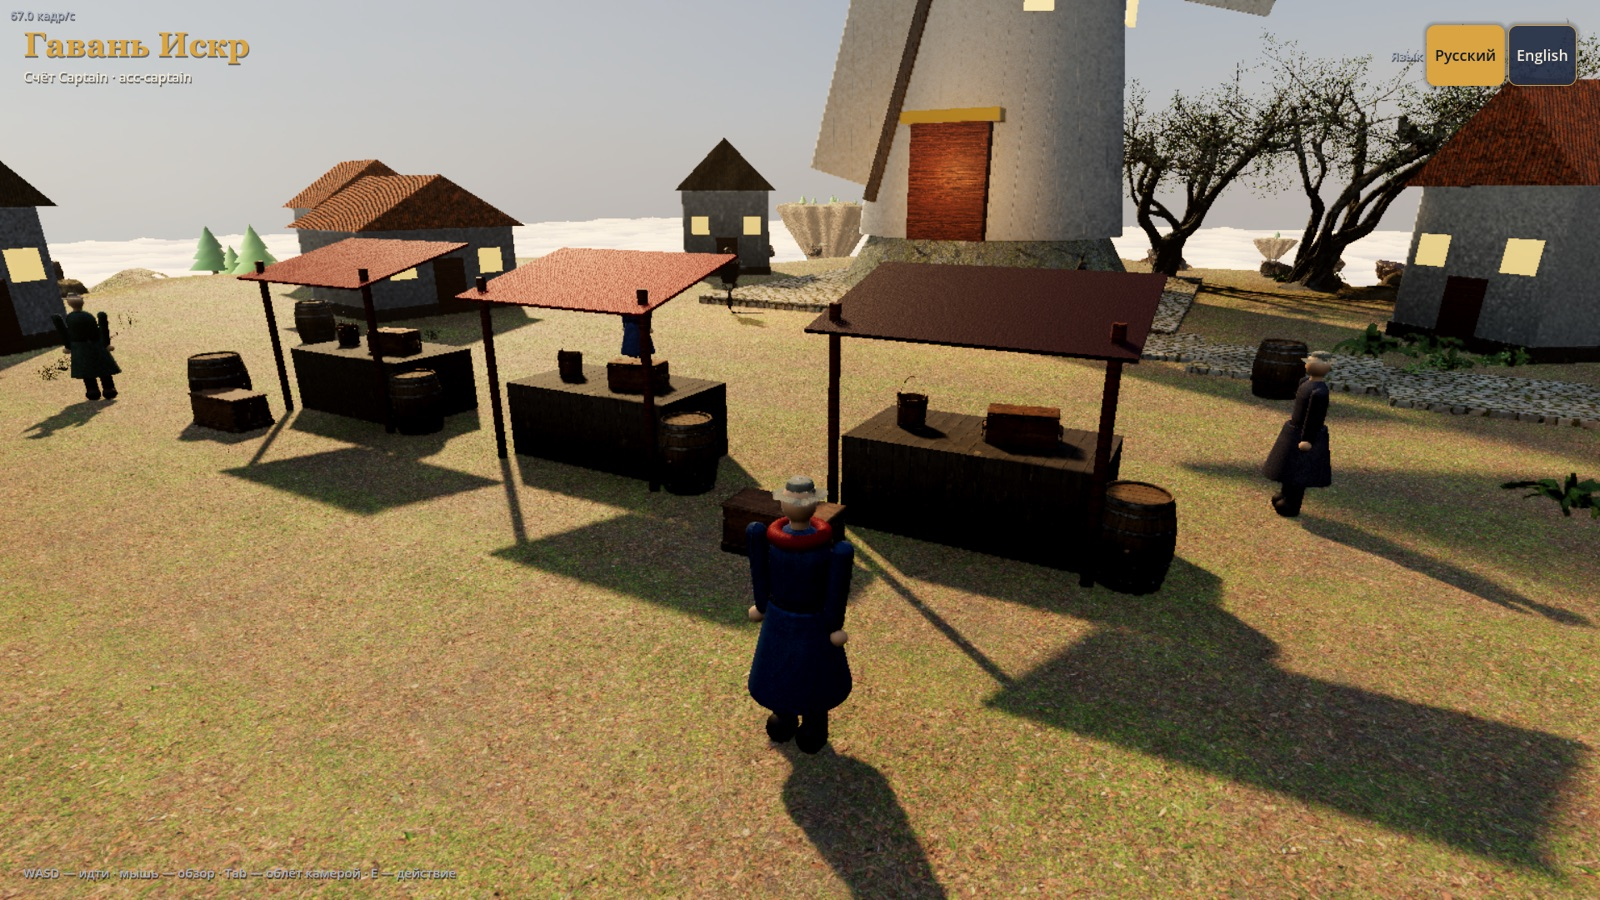
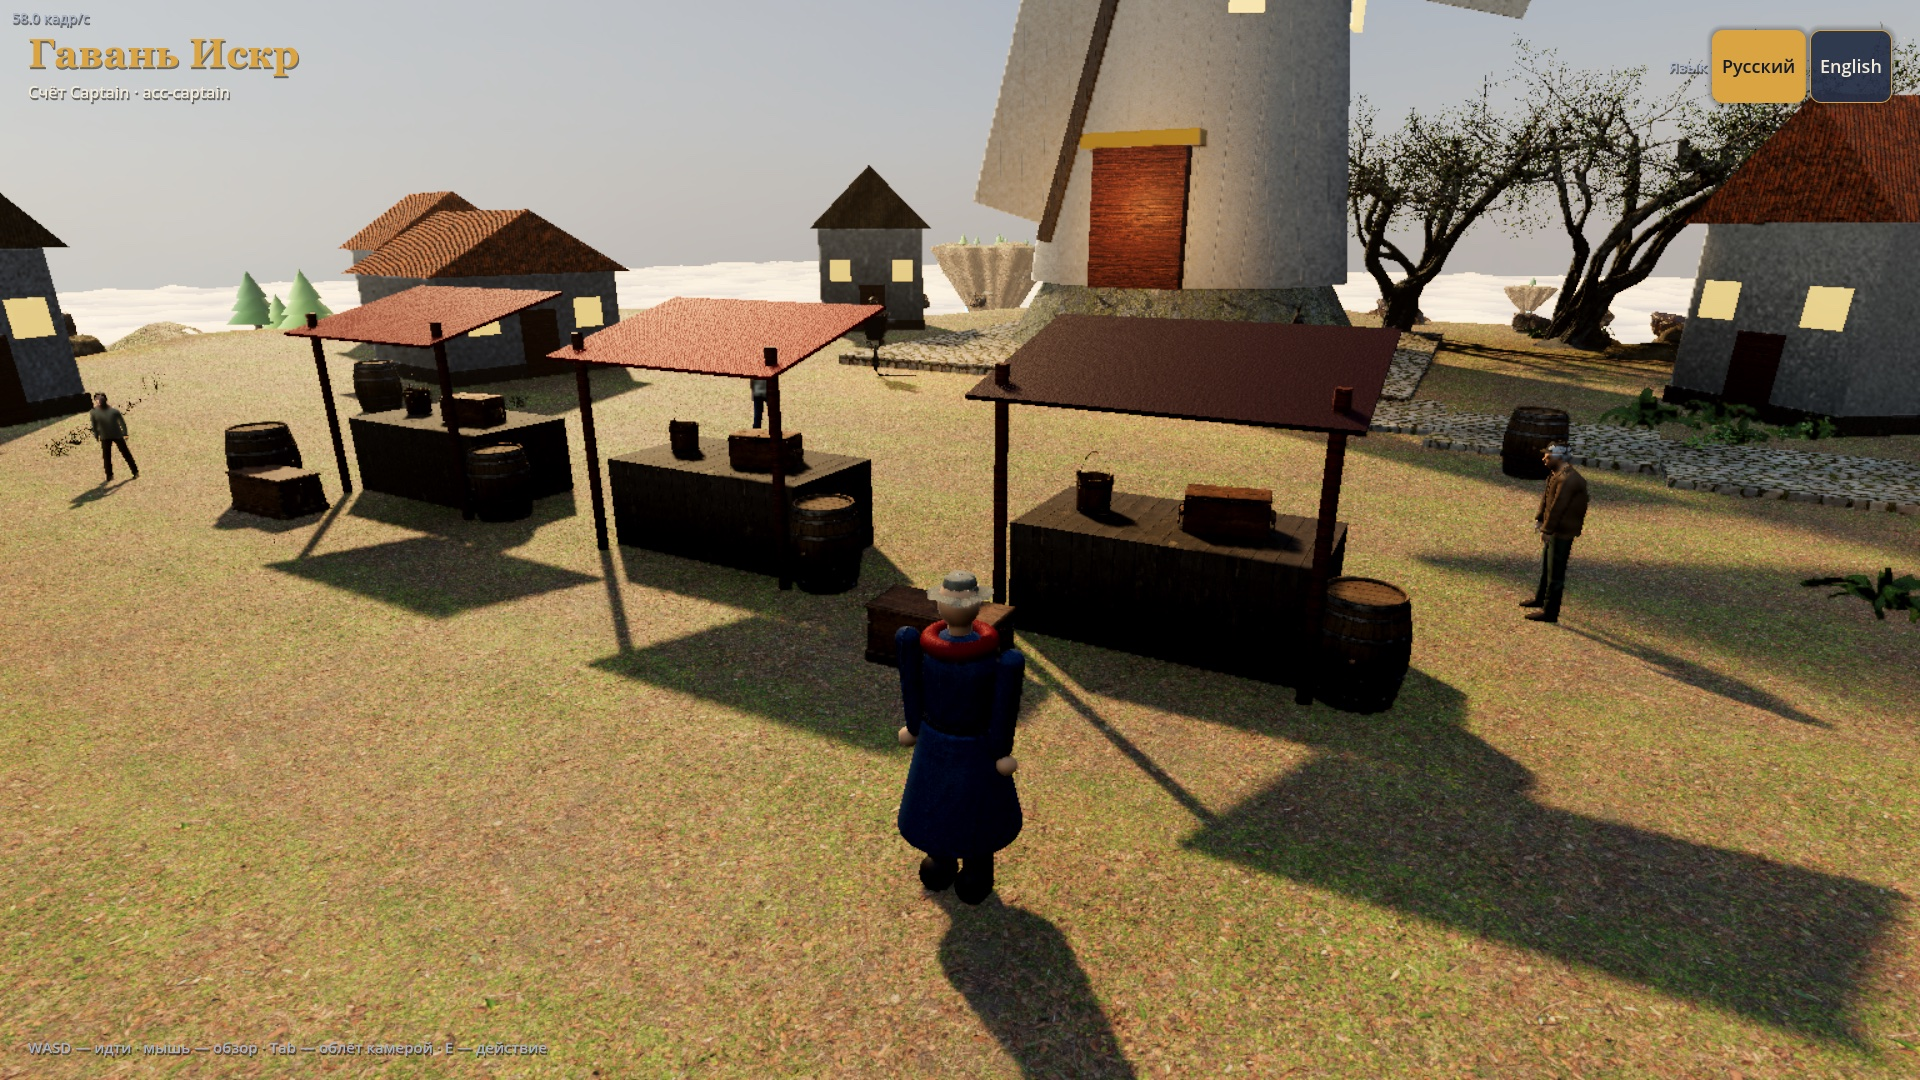
game3d: MakeHuman villagers, Mara and hall traders (CC0, generated by tools/people)

Changed region(s): [[0.7812, 0.3733, 1.0, 0.7156], [0.0, 0.3111, 0.0938, 0.4978], [0.375, 0.3422, 0.4062, 0.4044]]

diff --git a/game3d/tools/people/make.py b/game3d/tools/people/make.py
@@ -1,0 +1,98 @@
+import bpy, sys, os, json
+argv = sys.argv[sys.argv.index("--") + 1:]
+name, out = argv[0], argv[1]
+from bl_ext.user_default.mpfb.services.humanservice import HumanService
+from bl_ext.user_default.mpfb.services.objectservice import ObjectService
+
+C = {
+ "sailor": dict(ph=dict(gender=1.0, age=0.55, muscle=0.7, weight=0.55, height=0.55, race=dict(asian=0.3, caucasian=0.6, african=0.1)),
+   proxy="male_generic/male_generic.proxy", skin="young_caucasian_male/young_caucasian_male.mhmat",
+   hair="short02/short02.mhclo", eyebrows="eyebrow001/eyebrow001.mhclo", eyes_mat="brown",
+   clothes=["male_casualsuit06/male_casualsuit06.mhclo", "shoes03/shoes03.mhclo"], top=(0.80,0.76,0.66), bottom=(0.24,0.30,0.42), hat=None, hairtint=None),
+ "trader": dict(ph=dict(gender=0.0, age=0.6, muscle=0.5, weight=0.65, height=0.57, race=dict(asian=0.6, caucasian=0.35, african=0.05)),
+   proxy="female_generic/female_generic.proxy", skin="middleage_asian_female/middleage_asian_female.mhmat",
+   hair="braid01/braid01.mhclo", eyebrows="eyebrow010/eyebrow010.mhclo", eyes_mat="brownlight",
+   clothes=["female_elegantsuit01/female_elegantsuit01.mhclo", "shoes01/shoes01.mhclo"], top=(0.19,0.28,0.19), bottom=(0.45,0.34,0.22), hat=None, hairtint=None),
+ "oldman": dict(ph=dict(gender=1.0, age=1.0, muscle=0.35, weight=0.45, height=0.42, race=dict(asian=0.2, caucasian=0.75, african=0.05)),
+   proxy="male_generic/male_generic.proxy", skin="old_caucasian_male/old_caucasian_male.mhmat",
+   hair="short04/short04.mhclo", eyebrows="eyebrow002/eyebrow002.mhclo", eyes_mat="grey",
+   clothes=["male_casualsuit05/male_casualsuit05.mhclo", "shoes06/shoes06.mhclo", "fedora01/fedora01.mhclo"], top=(0.36,0.28,0.20), bottom=(0.20,0.23,0.19), hat=(0.24,0.19,0.14), hairtint=(0.72,0.71,0.69)),
+ "child": dict(ph=dict(gender=0.85, age=0.16, muscle=0.5, weight=0.5, height=0.5, race=dict(asian=0.4, caucasian=0.55, african=0.05)),
+   proxy="male_generic/male_generic.proxy", skin="young_caucasian_male/young_caucasian_male.mhmat",
+   hair="short01/short01.mhclo", eyebrows="eyebrow001/eyebrow001.mhclo", eyes_mat="blue",
+   clothes=["male_casualsuit02/male_casualsuit02.mhclo", "shoes03/shoes03.mhclo"], top=(0.74,0.67,0.52), bottom=(0.42,0.31,0.21), hat=None, hairtint=None),
+}[name]
+
+for o in list(bpy.data.objects):
+    bpy.data.objects.remove(o)
+
+hi = HumanService._create_default_human_info_dict()
+ph = hi["phenotype"]; ph.update({k: v for k, v in C["ph"].items() if k != "race"}); ph["race"] = C["ph"]["race"]
+hi.update(name=name, rig="game_engine", proxy=C["proxy"], skin_mhmat=C["skin"], skin_material_type="MAKESKIN",
+          eyes="low-poly/low-poly.mhclo", eyes_material_type="MAKESKIN", eyebrows=C["eyebrows"],
+          eyelashes="eyelashes01/eyelashes01.mhclo", hair=C["hair"], clothes=C["clothes"], clothes_material_type="MAKESKIN")
+s = HumanService.get_default_deserialization_settings()
+s.update(subdiv_levels=0, load_clothes=True)
+basemesh = HumanService.deserialize_from_dict(hi, s)
+
+# eye colour: swap eye texture to the chosen CC0 colour
+eyes = ObjectService.find_object_of_type_amongst_nearest_relatives(basemesh, "Eyes")
+assets = os.environ["MH_ASSETS"]
+if eyes:
+    img = bpy.data.images.load(os.path.join(assets, "eyes/materials", C["eyes_mat"] + "_eye.png"))
+    for slot in eyes.material_slots:
+        for n in slot.material.node_tree.nodes:
+            if n.type == "TEX_IMAGE" and n.image and "diffuse" in n.label.lower() + n.name.lower() + n.image.name.lower() or (n.type == "TEX_IMAGE" and n.image and "eye" in n.image.name.lower()):
+                n.image = img
+
+rig = basemesh.parent
+objs = [rig] + [o for o in rig.children if o is not basemesh]
+exec(open(os.path.join(os.path.dirname(os.path.abspath(__file__)), "restyle.py")).read())
+# Downscale textures to keep the glb small
+for im in bpy.data.images:
+    if im.size[0] > 1024:
+        im.scale(1024, int(1024 * im.size[1] / im.size[0]))
+        im.pack()
+
+
+CLIP = ("eyebrow", "eyelash", "short", "braid", "bob", "ponytail", "long", "afro")
+for o in objs:
+    if o.type != "MESH": continue
+    for slot in o.material_slots:
+        m = slot.material
+        if not m or not m.use_nodes: continue
+        nt = m.node_tree
+        for b in [n for n in nt.nodes if n.type == "BSDF_PRINCIPLED"]:
+            a = b.inputs["Alpha"]
+            src = a.links[0].from_socket if a.links else None
+            for l in list(a.links): nt.links.remove(l)
+            if src is not None and any(k in m.name.lower() for k in CLIP):
+                r = nt.nodes.new("ShaderNodeMath"); r.operation = "ROUND"
+                nt.links.new(src, r.inputs[0]); nt.links.new(r.outputs[0], a)
+                m.blend_method = "CLIP"
+            else:
+                a.default_value = 1.0
+                m.blend_method = "OPAQUE"
+
+bpy.ops.object.select_all(action="DESELECT")
+for o in objs:
+    o.hide_set(False); o.select_set(True)
+bpy.context.view_layer.objects.active = rig
+
+# stats
+dg = bpy.context.evaluated_depsgraph_get()
+tris = 0
+zmin, zmax = 1e9, -1e9
+for o in objs:
+    if o.type != "MESH": continue
+    e = o.evaluated_get(dg); m = e.to_mesh(); m.calc_loop_triangles()
+    tris += len(m.loop_triangles)
+    for v in m.vertices:
+        z = (e.matrix_world @ v.co).z; zmin = min(zmin, z); zmax = max(zmax, z)
+    e.to_mesh_clear()
+
+bpy.ops.export_scene.gltf(filepath=out, export_format="GLB", use_selection=True, export_yup=True,
+    export_apply=True, export_skins=True, export_animations=False, export_morph=False,
+    export_image_format="JPEG", export_jpeg_quality=85)
+print("STATS", json.dumps(dict(name=name, tris=tris, height_m=round(zmax - zmin, 3),
+      objects=[o.name for o in objs], bones=len(rig.data.bones))))

diff --git a/game3d/tools/people/restyle.py b/game3d/tools/people/restyle.py
@@ -1,0 +1,97 @@
+# executed inside make.py: has C, rig, basemesh, objs, name
+import numpy as np, math
+from mathutils import Vector, Matrix
+
+def img_np(im):
+    a = np.empty(im.size[0]*im.size[1]*4, dtype=np.float32); im.pixels.foreach_get(a); return a.reshape(-1, 4)
+
+def tinted(src, col, tag, flatten=0.7, gain=1.0):
+    a = img_np(src); lum = a[:, :3] @ np.array([0.299, 0.587, 0.114], np.float32)
+    m = lum[a[:, 3] > 0.1].mean() if (a[:, 3] > 0.1).any() else lum.mean()
+    l = flatten*m + (1-flatten)*lum            # compress contrast: kills logos/stripes, keeps folds
+    f = (l / max(m, 1e-3)) * gain
+    out = a.copy(); out[:, :3] = np.clip(np.array(col, np.float32)[None, :] * f[:, None], 0, 1)
+    # subtle cloth grain so flat colour reads painterly
+    rng = np.random.default_rng(7); out[:, :3] *= (1 + rng.normal(0, 0.025, (len(out), 1))).astype(np.float32)
+    im = bpy.data.images.new(src.name + "_" + tag, src.size[0], src.size[1], alpha=True)
+    im.pixels.foreach_set(np.clip(out, 0, 1).ravel()); im.pack(); return im
+
+def diffuse_node(m):
+    c = [n for n in m.node_tree.nodes if n.type == "TEX_IMAGE" and n.image and not any(k in n.image.name.lower() for k in ("normal", "bump", "_nm"))]
+    c = [n for n in c if not any(l.to_node.type == "NORMAL_MAP" for l in n.outputs["Color"].links)] or c
+    return c[0] if c else None
+
+def retint_material(m, col, tag, **kw):
+    m2 = m.copy(); m2.name = m.name + "." + tag
+    n = diffuse_node(m2)
+    if n: n.image = tinted(n.image, col, tag, **kw)
+    return m2
+
+pelvis = rig.pose.bones.get("pelvis"); 
+waist_z = (rig.matrix_world @ rig.data.bones["thigh_l"].head_local).z + (0.07 if name == "trader" else -0.07 if name != "child" else -0.05)
+LEATHER = (0.24, 0.16, 0.10)
+for o in objs:
+    if o.type != "MESH" or not o.material_slots: continue
+    lname = o.name.lower()
+    base = o.material_slots[0].material
+    if any(k in lname for k in ("casualsuit", "elegantsuit", "worksuit")):
+        mt = retint_material(base, C["top"], "top", flatten=0.9); mb = retint_material(base, C["bottom"], "bot", flatten=0.85)
+        o.data.materials.clear(); o.data.materials.append(mt); o.data.materials.append(mb)
+        mw = o.matrix_world
+        for poly in o.data.polygons:
+            z = (mw @ poly.center).z
+            poly.material_index = 1 if z < waist_z else 0
+    elif "shoes" in lname:
+        o.material_slots[0].material = retint_material(base, LEATHER, "lea", flatten=0.4)
+    elif "fedora" in lname and C["hat"]:
+        o.material_slots[0].material = retint_material(base, C["hat"], "felt", flatten=0.5)
+    elif C["hairtint"] and any(k in lname for k in ("short", "eyebrow")):
+        o.material_slots[0].material = retint_material(base, C["hairtint"], "grey", flatten=0.2)
+
+# ---- pose: relaxed stand ----
+bpy.context.view_layer.objects.active = rig
+bpy.ops.object.mode_set(mode="POSE")
+def aim(bname, target):
+    pb = rig.pose.bones[bname]; bpy.context.view_layer.update()
+    M = rig.matrix_world @ pb.matrix
+    head = M.translation.copy(); d = (M.to_3x3() @ Vector((0, 1, 0))).normalized()
+    R = d.rotation_difference(Vector(target).normalized()).to_matrix().to_4x4()
+    pb.matrix = rig.matrix_world.inverted() @ (Matrix.Translation(head) @ R @ Matrix.Translation(-head) @ M)
+    bpy.context.view_layer.update()
+def bend(bname, deg, axis="X"):
+    pb = rig.pose.bones[bname]; bpy.context.view_layer.update()
+    M = rig.matrix_world @ pb.matrix; head = M.translation.copy()
+    R = Matrix.Rotation(math.radians(deg), 4, axis)
+    pb.matrix = rig.matrix_world.inverted() @ (Matrix.Translation(head) @ R @ Matrix.Translation(-head) @ M)
+    bpy.context.view_layer.update()
+
+old = name == "oldman"
+if old:
+    for b, a in (("spine_01", 4), ("spine_02", 6), ("spine_03", 6), ("neck_01", -4), ("head", -6)):
+        if b in rig.pose.bones: bend(b, a)
+# figure faces -Y; +X is character's left side? sign from bone position
+for side, s_out, s_fwd, el in (("l", 0.20, -0.04, -0.18), ("r", 0.15, 0.02, -0.10)):
+    sx = 1 if rig.data.bones["upperarm_" + side].head_local.x > 0 else -1
+    aim("upperarm_" + side, (sx * s_out, s_fwd - (0.12 if old else 0), -1))
+    aim("lowerarm_" + side, (sx * 0.07, el - (0.15 if old else 0), -1))
+    aim("hand_" + side, (sx * 0.02, el * 0.6, -1))
+bend("head", 2.5, "Y") if "head" in rig.pose.bones else None
+bpy.ops.object.mode_set(mode="OBJECT")
+
+# apply pose to meshes, then pose as rest; keep the armature modifier
+for o in objs:
+    if o.type != "MESH": continue
+    if o.data.shape_keys:
+        o.shape_key_clear()
+    bpy.context.view_layer.objects.active = o
+    am = [m for m in o.modifiers if m.type == "ARMATURE"]
+    for m in am:
+        nm, obj = m.name, m.object
+        bpy.ops.object.modifier_apply(modifier=nm)
+        nmod = o.modifiers.new(nm, "ARMATURE"); nmod.object = obj
+        # move armature modifier to front
+        while o.modifiers.find(nm) > 0: bpy.ops.object.modifier_move_up(modifier=nm)
+bpy.context.view_layer.objects.active = rig
+bpy.ops.object.mode_set(mode="POSE"); bpy.ops.pose.select_all(action="SELECT")
+bpy.ops.pose.armature_apply(selected=False)
+bpy.ops.object.mode_set(mode="OBJECT")

diff --git a/game3d/ASSETS.md b/game3d/ASSETS.md
@@ -77,3 +77,11 @@ How they are used: `scripts/assets.gd` (paths, fallbacks), `scripts/proc.gd` (`_
 
 No sounds or music. Nothing is taken from existing games: the Poly Haven models are generic real-world objects
 (a 17th-century Dutch ship, barrels, lamps), and the world, names and layout are ours.
+
+## MakeHuman villagers (generated, not downloaded)
+
+`sailor`, `trader`, `oldman`, `child` in `assets/models/people/*.glb` are built by `game3d/tools/people/build.sh`
+(Blender 4.5 + MPFB 2 add-on + MakeHuman CC0 system assets, makehumancommunity.org). The base mesh, rig and every
+clothes, hair, eye and skin asset used are CC0; the clothes are recoloured and the pose set as rest pose by
+`restyle.py`. MPFB itself is GPL, its output is not. The files are git-ignored like the rest; without them the
+procedural person stands in.

diff --git a/DECISIONS.md b/DECISIONS.md
@@ -177,3 +177,7 @@ Build and CI
   with ledges, welded smooth normals; the cap stays flat inside 0.9 r so walking and props are unchanged), dressed with
   Poly Haven rock faces, cliffs, roots and pebbles; far islands get a light set. Thinned trees use `lod_bias` 2.5 so
   generated LODs don't strip the crown. Harbour stays ≥ 60 fps (worst view 64).
+- game3d people (ADR-0019): villagers, Mara and hall traders are MakeHuman characters (CC0, ~30k tris, 53-joint game
+  skeleton, static relaxed pose baked as rest pose, no animation yet), generated by `game3d/tools/people/build.sh`
+  rather than locked downloads, because MakeHuman exports characters instead of hosting them. The captain stays
+  procedural until walking animations exist. Harbour 58–66 fps on the worst views (Apple M5, 1080p).
